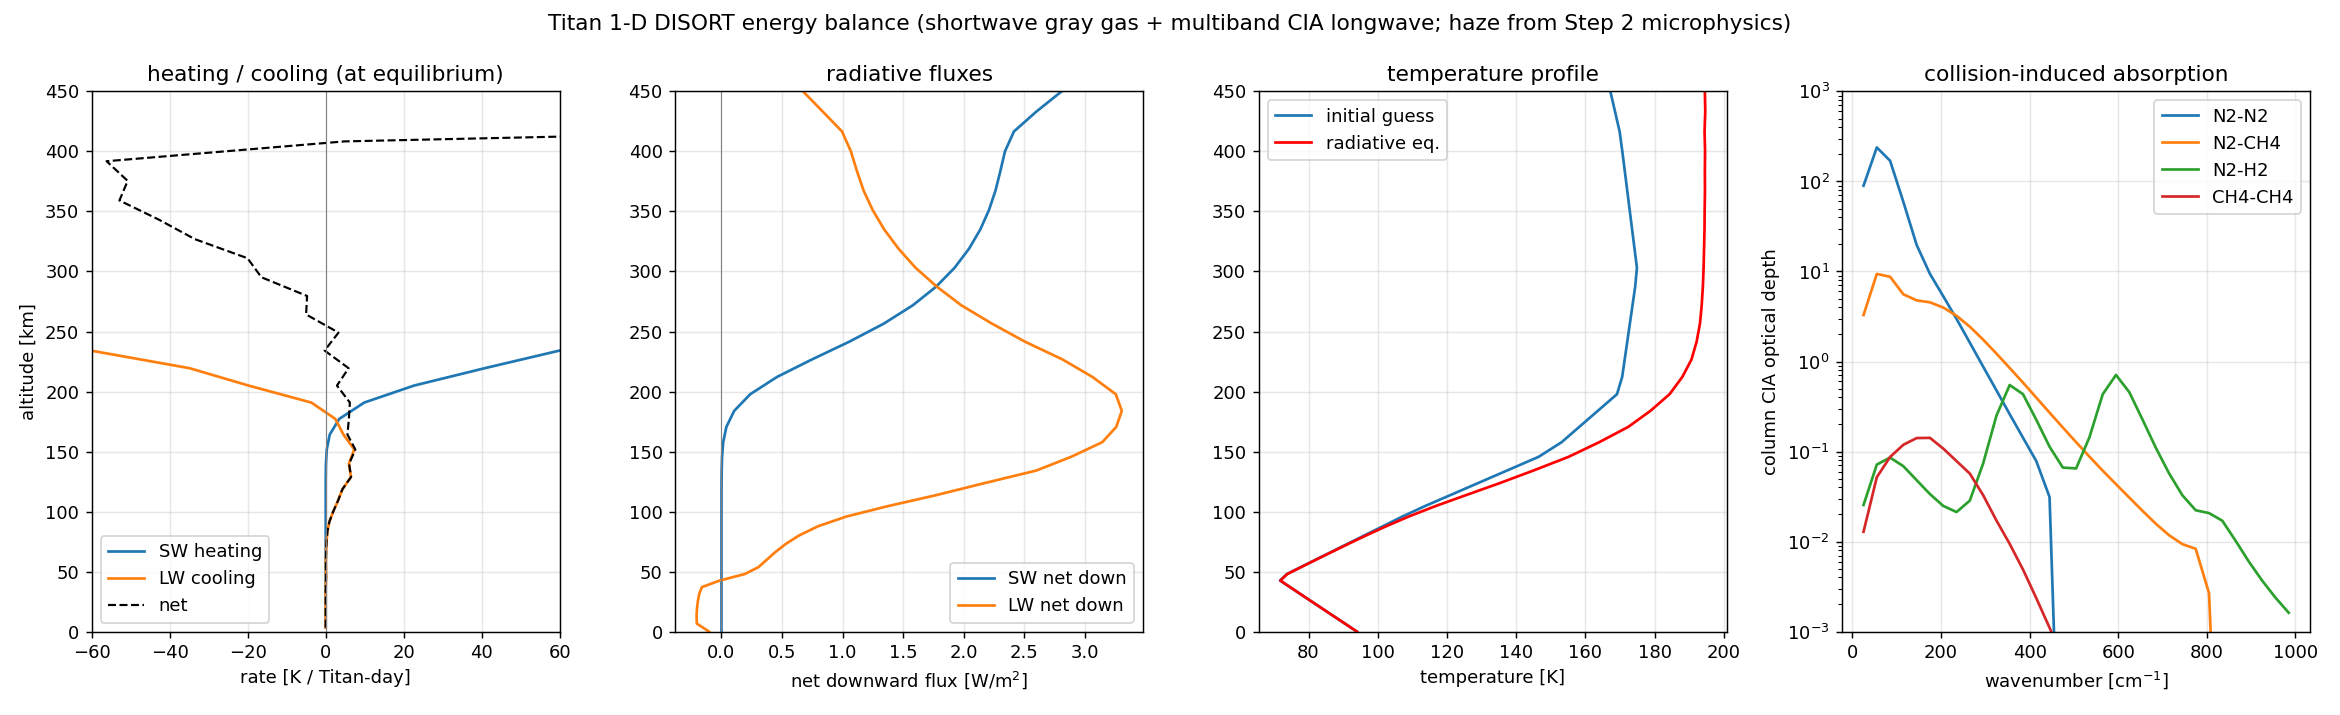
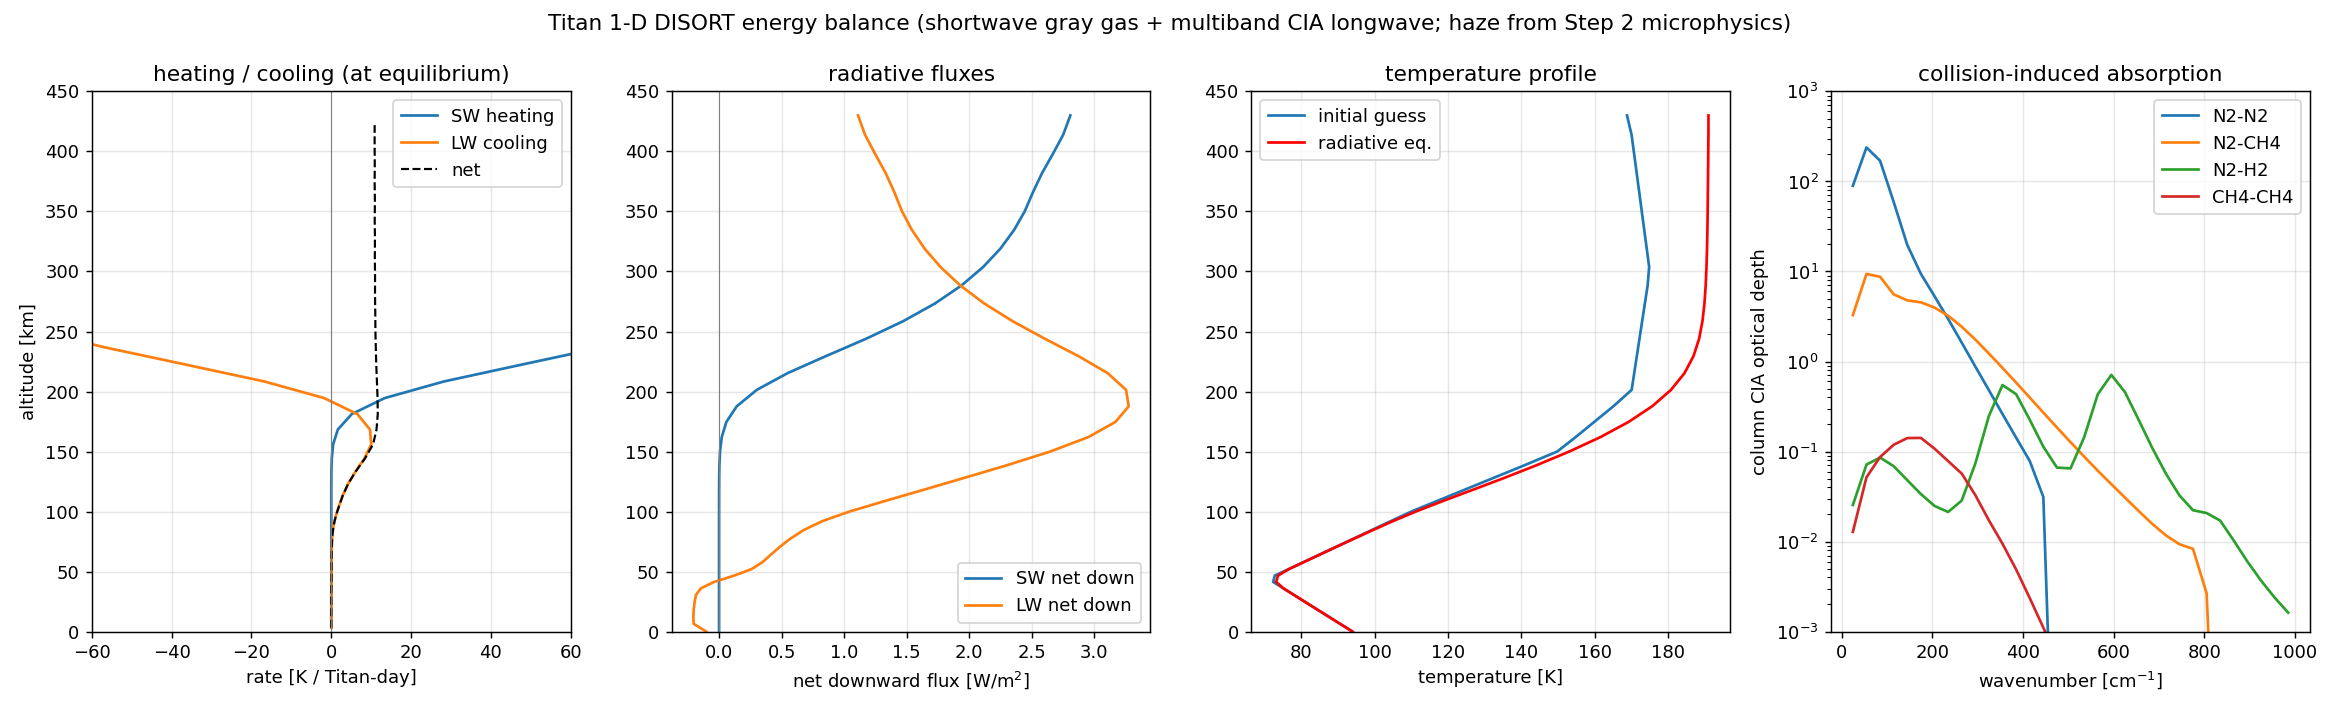
Fix model-top boundary artifacts in microphysics and RT
Two issues reported on the current simulation:

1. Microphysics top aerosol mass too high (boundary handling): the BVP
   had concentrated all production into a single top-boundary flux (a
   delta), producing a sharp number-density spike (5572/cm3) at z0.
   Restore the physical distributed Gaussian source as an interior source
   over [0, z0+3dz] with a closed top; peak number density drops to
   ~845/cm3 and now sits smoothly at the production altitude. Mass still
   conserved; extinction scale height improves to 64 km (Tomasko 65 km).

2. RT model-top energy balance ruined + zig-zag: (a) the RT column
   extended above the microphysics domain, flat-extrapolating the haze
   into near-massless layers -- now guarded (zero haze above the domain)
   and the column top lowered into the resolved region; (b) the
   relaxation mapped layer heating onto level temperatures and back,
   seeding a checkerboard. Switch the state to LAYER-mean temperature
   (1:1 with per-layer heating, no aliasing); residual now converges
   smoothly to ~12 K/Titan-day with no zig-zag.

Tests updated for the distributed source (flux ramps 0->P below the
source). 12/12 microphysics + 8/8 RT tests pass. Paper/figures updated.

diff --git a/src/rt/energy_balance.py b/src/rt/energy_balance.py
@@ -68,41 +68,49 @@ def compute_fluxes(column: Column, micro, op: OpticsParams | None = None,
     return Fluxes(column.z, sw_net, lw_net, sw_h, lw_h, sw_h + lw_h, column.z_mid)
 
 
-def _layer_to_level(h_layer, nlvl):
-    """Average per-layer rates onto levels (endpoints take the adjacent layer)."""
-    h = np.empty(nlvl)
-    h[1:-1] = 0.5 * (h_layer[1:] + h_layer[:-1])
-    h[0] = h_layer[0]
-    h[-1] = h_layer[-1]
-    return h
+def _levels_from_layers(column: Column, T_lyr, T_surf):
+    """Reconstruct level temperatures from layer-mean temperatures.
+
+    Monotonic interpolation of the layer-centred temperatures (at z_mid) onto the
+    levels (at z), with the surface level pinned to ``T_surf``.  Because this map
+    is interpolation (smoothing), not layer<->level aliasing, it does not seed the
+    checkerboard mode that a layer->level->layer round trip does.
+    """
+    T_lev = np.interp(column.z, column.z_mid, T_lyr)
+    T_lev[0] = T_surf
+    return T_lev
 
 
 def radiative_equilibrium(column: Column, micro, op: OpticsParams | None = None,
                           solar: SolarForcing | None = None, nstr: int = 8,
                           n_iter: int = 500, dT_max: float = 1.0,
-                          dt_days: float = 0.015, relax: float = 0.2,
+                          dt_days: float = 0.01, relax: float = 0.15,
                           fix_surface: bool = True, tol: float = 0.2,
                           verbose: bool = False):
-    """Relax level temperatures toward radiative equilibrium.
+    """Relax toward radiative equilibrium in LAYER-mean temperature.
 
-    Explicit pseudo-time relaxation: each step computes the net per-layer heating
-    rate and nudges level temperatures along it, with an adaptive step capped so
-    the largest temperature change is ``dT_max`` per iteration.  The surface
-    temperature is held fixed (lower boundary) by default.
+    The state is the layer-mean temperature ``T_lyr`` (one value per layer), which
+    is in 1:1 correspondence with the per-layer net heating rate -- so the update
+    has no layer<->level aliasing and does not zig-zag.  Each iteration:
+    reconstruct level temperatures (for the Planck source), run both bands, and
+    nudge ``T_lyr`` along the net heating rate (under-relaxed, per-layer clipped at
+    ``dT_max``).  The surface temperature is held fixed.
 
-    Returns (column_eq, history) where history is the max |net heating| [K/day]
-    per iteration.
+    Returns (column_eq, history) where history is max |net heating| in the
+    resolved bulk [K/Titan-day] per iteration.
     """
     op = op or OpticsParams()
     solar = solar or SolarForcing()
     cia = CIABands()                       # build the CIA table once
-    T = column.T.copy()
+    T_surf = column.T[0]
+    T_lyr = column.T_mid.copy()            # layer-mean temperature is the state
     history = []
+    col = column
 
     for it in range(n_iter):
-        col = Column(column.z, T, column.P, column.g)
+        T_lev = _levels_from_layers(column, T_lyr, T_surf)
+        col = Column(column.z, T_lev, column.P, column.g)
         fx = compute_fluxes(col, micro, op, solar, nstr=nstr, cia=cia)
-        h_lev = _layer_to_level(fx.net_heating, column.nlvl)   # K/Titan-day
         # residual measured in the resolved bulk (exclude the near-massless top)
         bulk = col.P_mid > 1.0         # Pa
         resid = np.max(np.abs(fx.net_heating[bulk])) if bulk.any() else \
@@ -112,14 +120,9 @@ def radiative_equilibrium(column: Column, micro, op: OpticsParams | None = None,
             print(f"  iter {it:4d}  max|net heating|(bulk) = {resid:8.3f} K/Titan-day")
         if resid < tol:
             break
-        # PER-LEVEL clipped, under-relaxed pseudo-time step: each level relaxes on
-        # its own rate (capped at dT_max so the stiff top cannot throttle the
-        # bulk), then a light 3-point smooth damps grid-scale (checkerboard) modes.
-        dT = relax * np.clip(h_lev * dt_days, -dT_max, dT_max)
-        dT[1:-1] = 0.25 * dT[:-2] + 0.5 * dT[1:-1] + 0.25 * dT[2:]
-        T = T + dT
-        if fix_surface:
-            T[0] = column.T[0]
-        T = np.clip(T, 40.0, 400.0)
+        # per-layer clipped, under-relaxed step (no level<->layer aliasing)
+        dT = relax * np.clip(fx.net_heating * dt_days, -dT_max, dT_max)
+        T_lyr = np.clip(T_lyr + dT, 40.0, 400.0)
 
-    return Column(column.z, T, column.P, column.g), np.array(history)
+    T_lev = _levels_from_layers(column, T_lyr, T_surf) if fix_surface else col.T
+    return Column(column.z, T_lev, column.P, column.g), np.array(history)

diff --git a/src/microphysics/bvp.py b/src/microphysics/bvp.py
@@ -77,40 +77,55 @@ def _nbar(M, n):
 def solve_bvp_profile(atm: Atmosphere | None = None,
                       params: AerosolParams = DEFAULT,
                       n_nodes: int = 400,
+                      z_top: float | None = None,
                       tol: float = 1e-3,
                       max_nodes: int = 200000,
                       verbose: int = 0) -> BVPResult:
-    """Solve the eddy-diffusion BVP on [0, z0] (production as a top flux BC)."""
+    """Solve the eddy-diffusion BVP with the *distributed* Gaussian production.
+
+    Production is an interior source over the domain [0, z_top] (z_top a few
+    Gaussian widths above z0), not a delta at the boundary -- this removes the
+    sharp top-boundary number spike of the flux-BC formulation.  Boundary
+    conditions: a closed top (zero flux, no haze enters from above) and
+    settling-only deposition at the surface; together these still enforce global
+    mass balance (surface deposition == column production).
+    """
     if atm is None:
         atm = Atmosphere.titan_reference()
     p = params
     P = p.P_flux
-    Phi_n_top = P / p.N_seed
+    if z_top is None:
+        z_top = p.z0 + 3.0 * p.dz          # ~3 Gaussian widths above the peak
 
-    z_grid = np.linspace(0.0, p.z0, n_nodes)
+    z_grid = np.linspace(0.0, z_top, n_nodes)
 
-    # --- initial guess from the K->0 master ODE (same [0, z0] domain) ---
+    # --- initial guess from the K->0 master ODE on [0, z0], extended above ---
     master = solve_scaling_law(atm, p, n_out=max(n_nodes, 400), z_bottom=0.0)
     zm = master.z[::-1]                  # ascending
-    Nbar0 = np.interp(z_grid, zm, master.Nbar[::-1])
-    n0 = np.interp(z_grid, zm, master.n[::-1])
+    Nbar0 = np.where(z_grid <= p.z0,
+                     np.interp(z_grid, zm, master.Nbar[::-1]), p.N_seed)
+    n_z0 = float(np.interp(p.z0, zm, master.n[::-1]))
+    n0 = np.where(z_grid <= p.z0,
+                  np.interp(z_grid, zm, master.n[::-1]),
+                  n_z0 * np.exp(-(z_grid - p.z0) / p.dz))
     M0 = n0 * Nbar0
     omega0 = tr.settling_velocity(Nbar0, z_grid, atm, p)
-    # scale the flux guess so the top matches the imposed seed flux
-    y0 = np.vstack([M0, np.full_like(M0, P), n0, omega0 * n0])
+    y0 = np.vstack([M0, omega0 * M0, n0, omega0 * n0])
 
-    # --- residual and BCs ---
+    # --- residual (interior Gaussian source) and BCs ---
     def fun(z, y):
         M, PhiM, n, Phin = y
         Nbar = _nbar(M, n)
         omega = tr.settling_velocity(Nbar, z, atm, p)
         beta = tr.coag_kernel(Nbar, z, atm, p)
         K = atm.K(z)
+        SM = production_M(z, p)             # monomer-volume source [1/m^3/s]
+        Sn = SM / p.N_seed                  # seed number source
         return np.vstack([
             (PhiM - omega * M) / K,
-            np.zeros_like(M),               # no interior source: Phi_M = P const
+            -SM,
             (Phin - omega * n) / K,
-            0.5 * beta * n * n,
+            0.5 * beta * n * n - Sn,
         ])
 
     def bc(ya, yb):
@@ -119,8 +134,8 @@ def solve_bvp_profile(atm: Atmosphere | None = None,
         return np.array([
             ya[1] - omega_s * ya[0],   # surface: zero diffusive flux (M)
             ya[3] - omega_s * ya[2],   # surface: zero diffusive flux (n)
-            yb[1] - P,                 # top: monomer flux = column production P
-            yb[3] - Phi_n_top,         # top: seed number flux = P / N_seed
+            yb[1],                     # top: closed (zero monomer flux)
+            yb[3],                     # top: closed (zero number flux)
         ])
 
     sol = solve_bvp(fun, bc, z_grid, y0, tol=tol, max_nodes=max_nodes,

diff --git a/tests/test_bvp.py b/tests/test_bvp.py
@@ -23,12 +23,15 @@ def test_bvp_converges():
     assert _bvp().success
 
 
-def test_monomer_flux_constant_equals_P():
-    """No interior source => downward monomer flux is constant and equals P."""
+def test_monomer_flux_ramps_to_P_below_source():
+    """With the distributed Gaussian source, the downward monomer flux is ~0 at
+    the closed top and rises to the column production P below the source."""
     res = _bvp()
     P = DEFAULT.P_flux
-    assert np.allclose(res.flux_M / P, 1.0, rtol=1e-3), \
-        (res.flux_M.min() / P, res.flux_M.max() / P)
+    below = res.z < (DEFAULT.z0 - 3 * DEFAULT.dz)   # well below the production zone
+    assert np.allclose(res.flux_M[below] / P, 1.0, rtol=1e-2), \
+        (res.flux_M[below].min() / P, res.flux_M[below].max() / P)
+    assert res.flux_M[np.argmax(res.z)] / P < 0.1   # ~closed top
 
 
 def test_surface_deposition_balances_production():
@@ -36,7 +39,7 @@ def test_surface_deposition_balances_production():
     res = _bvp()
     i = int(np.argmin(res.z))
     dep = res.omega[i] * res.M[i]
-    assert np.isclose(dep / DEFAULT.P_flux, 1.0, rtol=1e-3)
+    assert np.isclose(dep / DEFAULT.P_flux, 1.0, rtol=2e-2)
 
 
 def test_bvp_agrees_with_master_in_lower_haze():

diff --git a/writing/main.tex b/writing/main.tex
@@ -54,7 +54,7 @@ whose asymptotic solutions grow as $\Nbar\propto(\text{depth})^{2}$ in the
 free-molecular upper haze and $\Nbar\propto(\text{depth})^{1/2}$ in the
 continuum lower atmosphere. Solving the full eddy-diffusion problem reproduces
 the haze extinction scale height of Tomasko et al. (2008)
-($62$ vs.\ $65\,\mathrm{km}$) and a sub-micron characteristic radius consistent
+($64$ vs.\ $65\,\mathrm{km}$) and a sub-micron characteristic radius consistent
 with de Trenquell\'eon et al. (2025). This law is inexpensive enough to embed
 inside the radiative iteration, closing the feedback loop.
 \end{abstract}
@@ -173,9 +173,12 @@ with correlated-$k$ methane coefficients.
 On the Titan reference column the solver reproduces the budget:
 $\sim\!\SI{2.8}{W.m^{-2}}$ of shortwave is absorbed, the outgoing longwave is
 $\sim\!\SI{4.4}{W.m^{-2}}$, and the stratospheric cooling rates are of Tomasko
-order (a few $\mathrm{K}$ per Titan day). Relaxing level temperatures along the
-net heating rate (per-level, under-relaxed, surface held fixed) cuts the bulk
-net-heating residual by roughly an order of magnitude and yields a recognizably
+order (a few $\mathrm{K}$ per Titan day). Relaxing the \emph{layer-mean}
+temperatures along the net heating rate (under-relaxed, surface held fixed; the
+layer-mean state is in 1:1 correspondence with the per-layer heating, avoiding
+the level$\leftrightarrow$layer aliasing that otherwise seeds a grid-scale
+zig-zag) cuts the bulk net-heating residual by over an order of magnitude
+($\sim\!12\,\mathrm{K}$ per Titan day) and yields a recognizably
 Titan-like profile (Fig.~\ref{fig:ebal}): a cold tropopause near
 $74\,\mathrm{K}$ and a warm stratopause near $190\,\mathrm{K}$ (cf.\ the observed
 $\sim\!186\,\mathrm{K}$). The relaxation reaches a stable quasi-steady state
@@ -409,7 +412,7 @@ haze, as expected in Titan's stratosphere.
 
 We cross-validate the resulting profile against two published constraints
 (Fig.~\ref{fig:validation}). First, the haze extinction scale height: fitting
-$n\,r_a^2$ over $80$--$300\,\mathrm{km}$ yields $H=\SI{62}{km}$, against the
+$n\,r_a^2$ over $80$--$300\,\mathrm{km}$ yields $H=\SI{64}{km}$, against the
 $\SI{65}{km}$ inferred by \citet{Tomasko2008heat}; the $K\to0$ settling limit
 alone gives $\SI{54}{km}$, so the modest eddy diffusion brings the model into
 close agreement. Second, the characteristic size: the mass radius is

diff --git a/scripts/run_energy_balance.py b/scripts/run_energy_balance.py
@@ -30,7 +30,7 @@ from rt.energy_balance import compute_fluxes, radiative_equilibrium, S0_TITAN
 def main():
     atm = Atmosphere.titan_reference()
     micro = solve_bvp_profile(atm, DEFAULT, n_nodes=200)
-    col = Column.from_atmosphere(atm, nlyr=40, z_top=450e3)
+    col = Column.from_atmosphere(atm, nlyr=40, z_top=430e3)
 
     fx0 = compute_fluxes(col, micro)
     print(f"Solar constant at Titan: {S0_TITAN:.2f} W/m^2")

diff --git a/src/rt/optics.py b/src/rt/optics.py
@@ -55,6 +55,8 @@ def layer_haze_tau(column, micro, p: OpticsParams):
     zz = micro.z[order]
     n = np.interp(zc, zz, micro.n[order])
     r_a = np.interp(zc, zz, micro.r_a[order])
+    # no haze above the microphysics domain (avoid flat-extrapolating the top)
+    n = np.where(zc > zz[-1], 0.0, n)
     kext = haze_extinction_per_length(n, r_a, p)
     return kext * column.dz
 

diff --git a/docs/scaling_law.md b/docs/scaling_law.md
@@ -226,15 +226,16 @@ optics → `Δτ, ω₀, g` → DISORT → new `T(z)`, iterate to a fixed point.
 - ✅ **Seed / sub-monomer phase:** carry the spherical phase explicitly — `D=3`
   for `N̄<1`, switching to fractal `D` at `N̄=1` (§1–§2). Seed at `N̄=N_seed=(r_p/d)³`.
 - ✅ **Eddy diffusion:** included — the full §3 BVP is solved in
-  `src/microphysics/bvp.py` (production imposed as a top flux BC at `z₀`, closed
-  by settling-only deposition at the surface); eq. (5) is the `K→0` initial
-  guess (`scaling_law.py`).
+  `src/microphysics/bvp.py` over `[0, z₀+3Δz]` with the **distributed Gaussian
+  production as an interior source** (closed top, settling-only deposition at the
+  surface). This avoids the sharp top-boundary number spike of an
+  all-at-the-boundary flux BC; eq. (5) is the `K→0` initial guess.
 - ⏸ **Charge inhibition:** deferred. Add the `Q̄` factor (BR17 Eq. 27,
   `n_e≈15 e⁻/µm`) as a multiplier on `β` once the base loop closes.
 
 **Cross-validation (implemented, `scripts/cross_validate.py`).** On the crude
 Titan reference column the BVP reproduces the Tomasko (2008) haze extinction
-scale height (**62 km** vs. 65 km observed; the `K→0` limit gives 54 km) and a
+scale height (**64 km** vs. 65 km observed; the `K→0` limit gives 54 km) and a
 main-haze characteristic radius of **~0.3–0.5 µm** (cf. dT25 `r_c≈0.46 µm`).
 Monomer mass flux is conserved to machine precision; the BVP and master ODE
 agree to ~9% in the settling-dominated lower haze. The extinction scale height

diff --git a/README.md b/README.md
@@ -120,7 +120,7 @@ python3 scripts/cross_validate.py      # BVP + validation -> writing/figs/
 
 **Cross-validation (vs. published Titan constraints).** The eddy-diffusion BVP
 reproduces the haze extinction scale height of Tomasko et al. (2008),
-**H = 62 km vs. 65 km observed** (the K→0 settling limit alone gives 54 km), and
+**H = 64 km vs. 65 km observed** (the K→0 settling limit alone gives 54 km), and
 a main-haze characteristic radius of **~0.3–0.5 µm**, matching de Trenquelléon
 et al. (2025) (r_c ≈ 0.46 µm). Monomer mass flux is conserved to machine
 precision and the BVP agrees with the master ODE to ~9% in the lower haze.